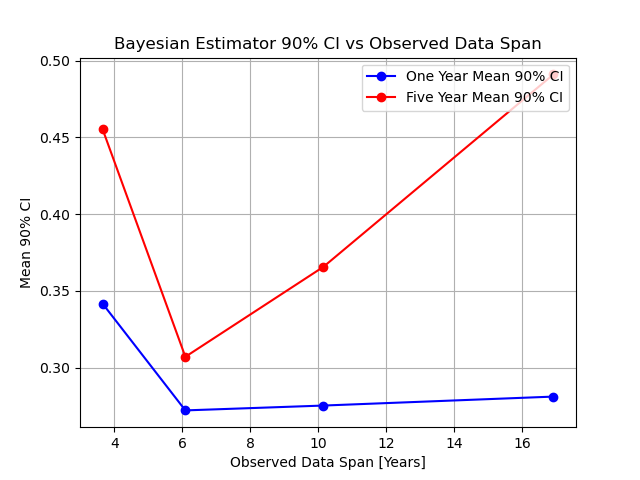
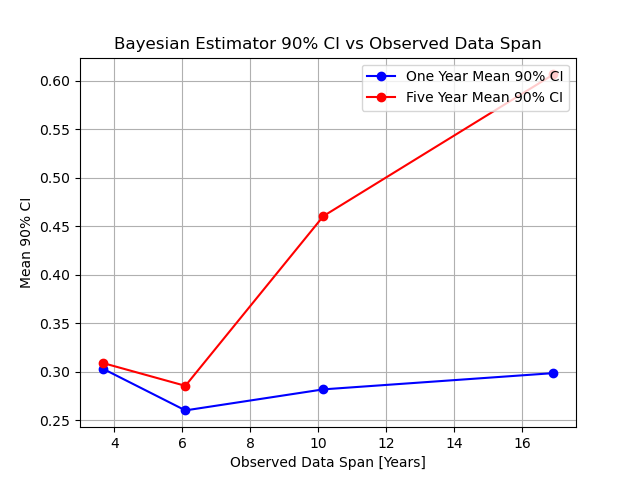
Added normalization of the Bayesian ARIMA example.

diff --git a/ARIMA/examples/bayesian.py b/ARIMA/examples/bayesian.py
@@ -14,14 +14,19 @@ from ARIMA import BayesianARIMA
 from ARIMA.examples.utils import load_data, calc_percentiles, plots_dir, timeit
 from ARIMA.pyro_utils import calc_obs_log_prob
 from ARIMA.examples import __name__ as __examples__name__
-from torch.distributions.transforms import ExpTransform
+from torch.distributions.transforms import ExpTransform, AffineTransform
 
 def create_model(obs_idx, num_predictions):
     # Create model with non-overlapping observed and predicted sample indices.
     predict_idx = [*range(max(obs_idx) + 1 + num_predictions)]
     predict_idx = [idx for idx in predict_idx if idx not in obs_idx]
+    # Normalize observations by an output transform
+    mean_log = observations.log().mean()
+    std_log = observations.log().std()
+    output_transforms = [AffineTransform(loc=mean_log, scale=std_log), ExpTransform()]
     return BayesianARIMA(3, 0, 1, 0, 1, 2, 12,
-                         obs_idx=obs_idx, predict_idx=predict_idx, output_transforms=[ExpTransform()])
+                         obs_idx=obs_idx, predict_idx=predict_idx,
+                         output_transforms=output_transforms)
 
 @timeit
 def fit(model, observations,
